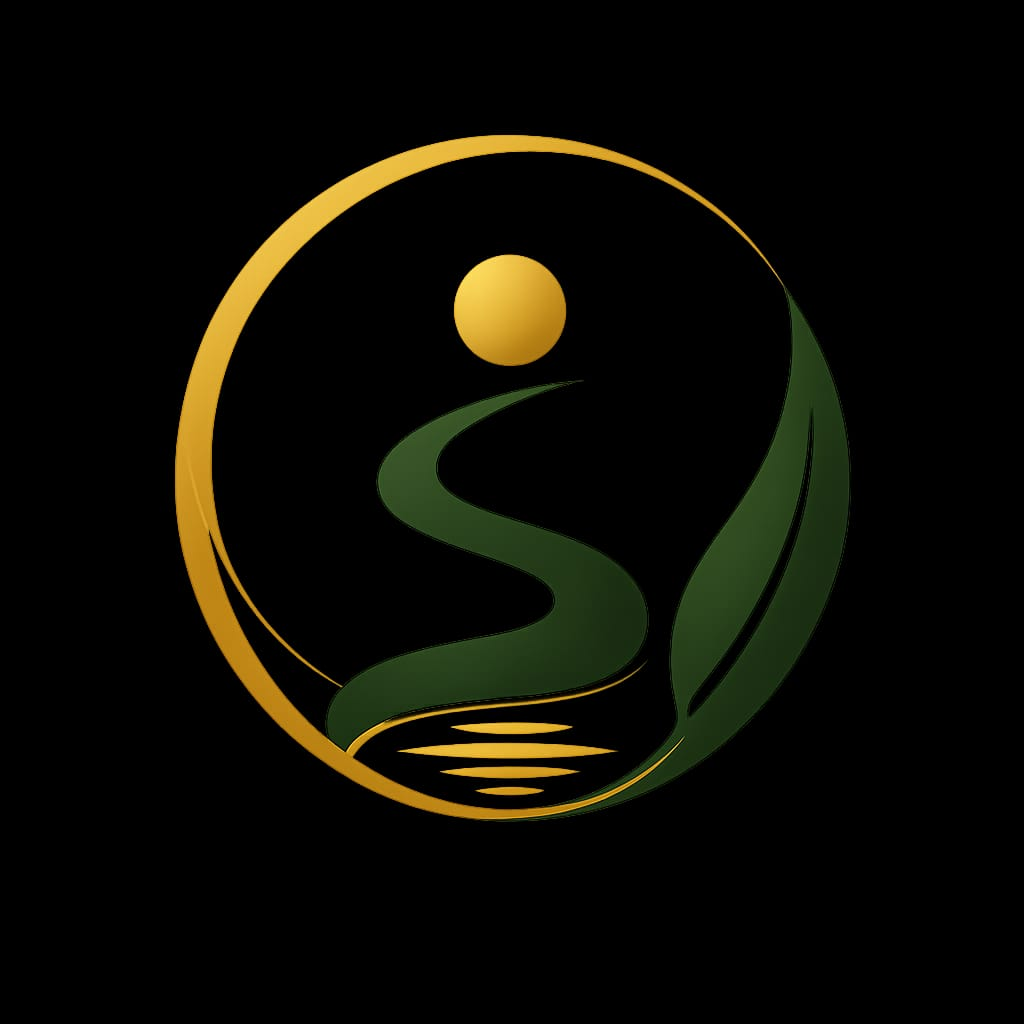
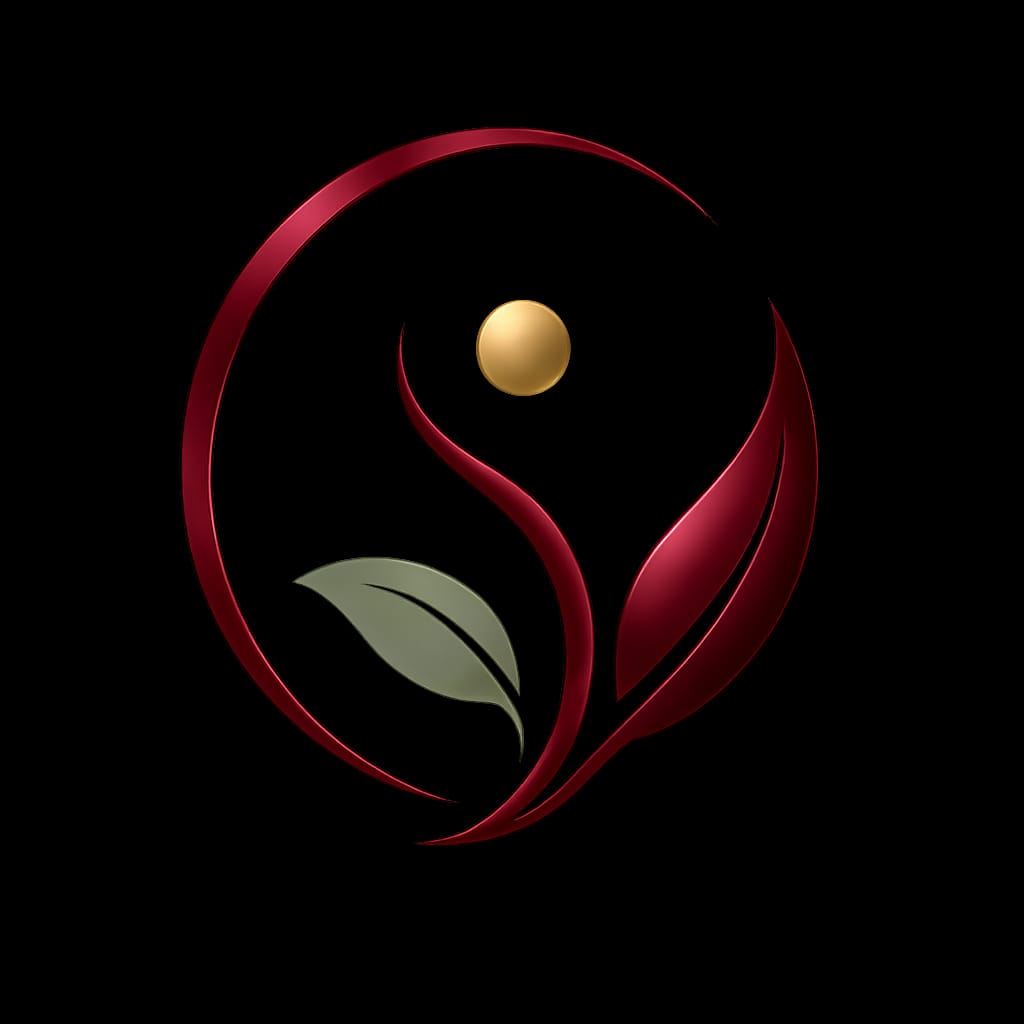
Update branding: Colors (Burgundy, Deep Green, Gold) and new images

Changed region(s): [[0.1562, 0.125, 0.8438, 0.8438], [0.7188, 0.2188, 0.75, 0.25]]

diff --git a/src/app/globals.css b/src/app/globals.css
@@ -5,25 +5,25 @@
 
 @layer base {
   :root {
-    --background: 120 7% 95%; /* Mint Beige #F0F3F0 */
-    --foreground: 130 39% 14%; /* Darker Forest Green */
+    --background: 40 20% 97%; /* Soft pale gold/beige */
+    --foreground: 166 45% 15%; /* Deep Green */
     --card: 0 0% 100%;
-    --card-foreground: 130 39% 14%;
+    --card-foreground: 166 45% 15%;
     --popover: 0 0% 100%;
-    --popover-foreground: 130 39% 14%;
-    --primary: 130 39% 20%; /* Forest Green #1F4726 */
-    --primary-foreground: 120 7% 98%;
-    --secondary: 102 40% 50%; /* Green Accent #6CB34D */
+    --popover-foreground: 166 45% 15%;
+    --primary: 345 60% 25%; /* Burgundy */
+    --primary-foreground: 40 20% 97%;
+    --secondary: 166 45% 15%; /* Deep Green */
     --secondary-foreground: 0 0% 100%;
-    --muted: 130 10% 90%;
-    --muted-foreground: 130 10% 40%;
-    --accent: 102 40% 90%;
-    --accent-foreground: 130 39% 20%;
+    --muted: 40 10% 90%;
+    --muted-foreground: 166 20% 40%;
+    --accent: 40 48% 56%; /* Gold */
+    --accent-foreground: 0 0% 100%;
     --destructive: 0 84.2% 60.2%;
     --destructive-foreground: 0 0% 98%;
-    --border: 130 10% 85%;
-    --input: 130 10% 85%;
-    --ring: 130 39% 20%;
+    --border: 40 15% 85%;
+    --input: 40 15% 85%;
+    --ring: 345 60% 25%;
     --radius: 0.25rem;
   }
 }
@@ -42,7 +42,7 @@
 }
 
 .hero-overlay {
-  background: linear-gradient(rgba(31, 71, 38, 0.6), rgba(31, 71, 38, 0.3));
+  background: linear-gradient(rgba(21, 55, 44, 0.7), rgba(21, 55, 44, 0.4));
 }
 
 .glass-card {

diff --git a/src/app/gallery/page.tsx b/src/app/gallery/page.tsx
@@ -3,7 +3,7 @@ import { Footer } from "@/components/Footer";
 
 export default function GalleryPage() {
   const images = [
-    "/Gallery/kegiatan1.png",
+    "/Gallery/Kegiatan 1.jpeg",
     "https://images.unsplash.com/photo-1518241353330-0f7941c2d9b5?q=80&w=1000&auto=format&fit=crop", 
     "https://images.unsplash.com/photo-1506126613408-eca07ce68773?q=80&w=1000&auto=format&fit=crop", 
     "https://images.unsplash.com/photo-1536623975707-c4b3b2af565d?q=80&w=1000&auto=format&fit=crop", 

diff --git a/src/components/SolutionSection.tsx b/src/components/SolutionSection.tsx
@@ -11,7 +11,7 @@ export function SolutionSection() {
         <div className="md:w-1/2 relative">
           <div className="relative z-10 rounded-sm overflow-hidden shadow-2xl">
             <Image 
-              src={villaImage?.imageUrl || "/vila.jpeg"} 
+              src={villaImage?.imageUrl || "/villa.jpeg"} 
               alt="Private Villa Bogor" 
               width={1000}
               height={1000}